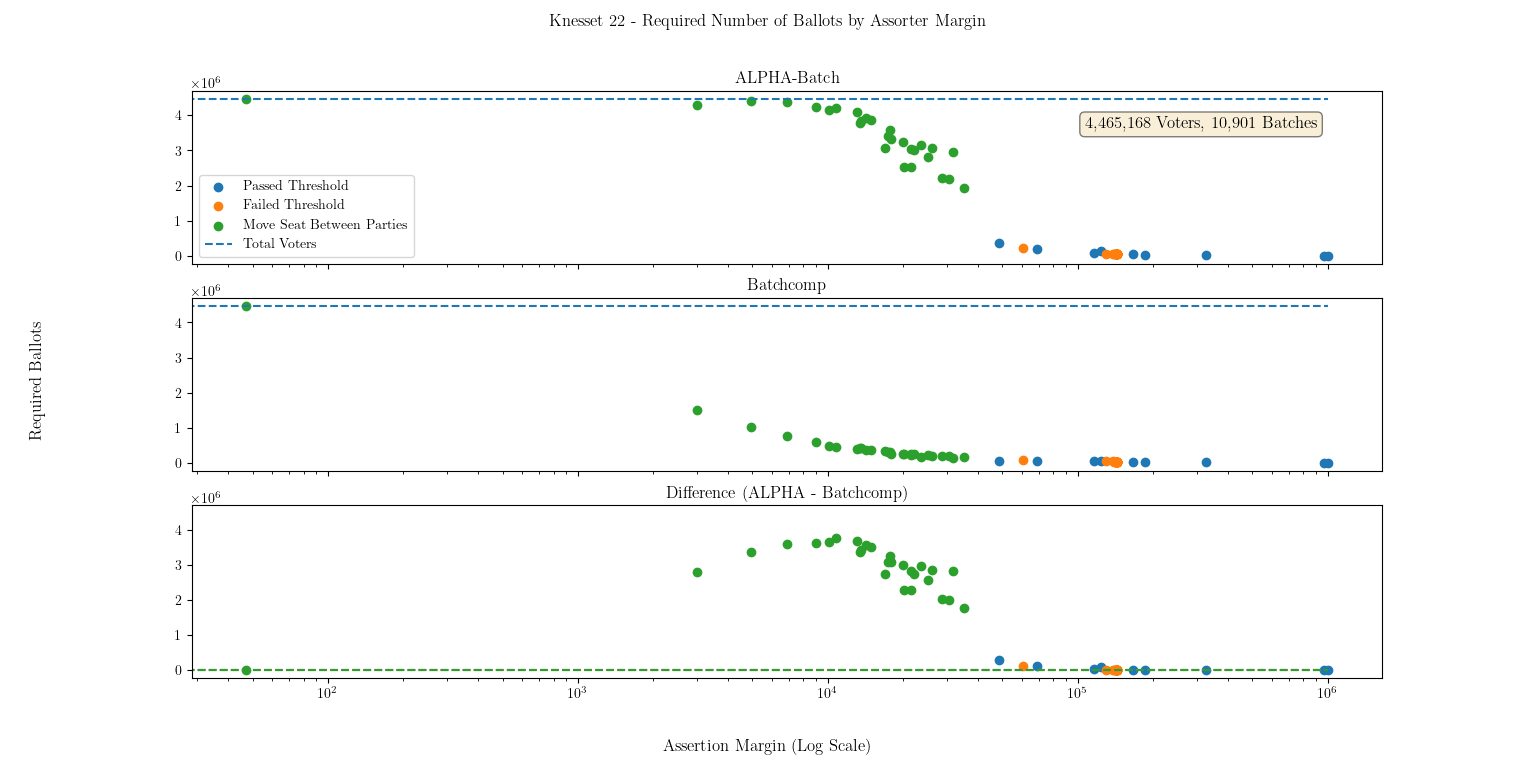
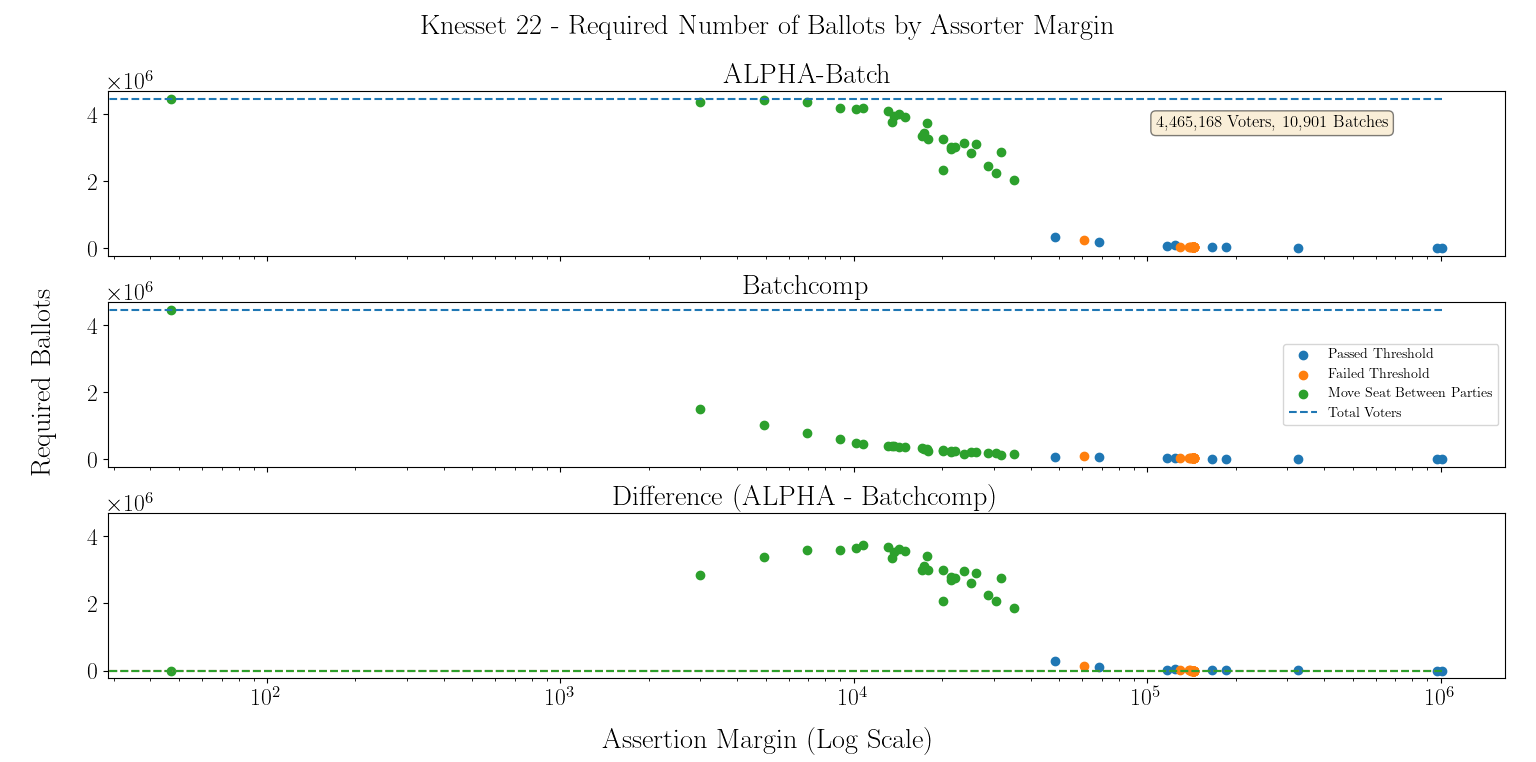
Wrote generate_census_data
+ added plots

diff --git a/CensusProfile.py b/CensusProfile.py
@@ -1,4 +1,7 @@
 import numpy as np
+from collections import Counter
+
+REPS_N = 435
 
 EPSILON = 10**(-10)
 STATE_IND = 0
@@ -6,11 +9,6 @@ IN_CENSUS_IND = 1
 CENSUS_RESIDENTS_IND = 2
 IN_PES_IND = 3
 PES_RESIDENTS_IND = 4
-
-# Possible values of the census_data[:, IN_PES_IND]
-OUT_OF_PES = 0  # Household not included in pes households
-IN_PES_UNSURVEYED = 1  # Household is included in PES households, but was not surveyed during the PES
-IN_PES_SURVEYED = 2  # Household is included in PES and was re-surveyed during it.
 
 # Data file names
 STATE_POP_FILE = 'state_pop.npy'
@@ -39,7 +37,7 @@ class CensusProfile:
         # Create dictionary with number of residents at each state
         residents_dict = dict()
         for state in self.state_constants.keys():
-            residents_dict[state] = np.sum(households[np.where(households[:, 0] == state)])
+            residents_dict[state] = np.sum(households[np.where(households[:, 0] == state)]) + self.state_constants[state]
         residents_dict = self.sort_dict(residents_dict)
 
         # Create price table
@@ -57,9 +55,41 @@ class CensusProfile:
         return dict(sorted(d.items(), key=lambda item: item[0]))
 
     @staticmethod
-    def generate_census_data(noisy_pes=False):
-        states_pop = np.load(STATE_POP_FILE)
+    def generate_census_data(noisy_pes=False, household_mismatch=0.005):
+        state_pop = np.load(STATE_POP_FILE)
         household_residents_p = np.load(HOUSEHOLD_RESIDENTS_P_FILE)
-        avg_residents_per_hh = np.mean(household_residents_p * np.arange(len(household_residents_p)))
-        census_
-        for pop in states_pop
+        mean_residents_per_hh = np.sum(household_residents_p * np.arange(len(household_residents_p)))
+        state_households = (1+household_mismatch) * state_pop / mean_residents_per_hh
+        state_households = state_households.astype(int)
+        household_n = np.sum(state_households)
+
+        # create household_data matrix and fill with household states
+        household_data = np.zeros((household_n, 5), dtype=int)
+        curr_index = 0
+        state_inds = [0]
+        for i in range(len(state_pop)):
+            only_pes_hh_num = int(state_households[i] * household_mismatch / 2)
+            only_cen_hh_num = int(state_households[i] * household_mismatch) - only_pes_hh_num
+            household_data[curr_index:(curr_index + state_households[i]), STATE_IND] = i
+            household_data[curr_index:(curr_index + state_households[i] - only_cen_hh_num), IN_PES_IND] = 1
+            household_data[curr_index:(curr_index + state_households[i] - only_cen_hh_num - only_pes_hh_num), IN_CENSUS_IND] = 1
+            household_data[(curr_index + state_households[i] - only_cen_hh_num):(curr_index + state_households[i]), IN_CENSUS_IND] = 1
+            curr_index += state_households[i]
+            state_inds.append(curr_index)
+
+        # Draw household resident counts
+        household_data[:, CENSUS_RESIDENTS_IND] = np.random.choice(len(household_residents_p), household_n, p=household_residents_p)
+        household_data[:, PES_RESIDENTS_IND] = household_data[:, CENSUS_RESIDENTS_IND]
+        household_data[np.where(household_data[:, IN_CENSUS_IND] == 0), CENSUS_RESIDENTS_IND] = 0
+        household_data[np.where(household_data[:, IN_PES_IND] == 0), PES_RESIDENTS_IND] = 0
+        if noisy_pes:
+            pass  # TODO implement
+
+        # Create state_consts to balance state population discrepancies
+        state_consts = dict()  # state_const - census_state_population = true_state_population
+        for i in range(len(state_pop)):
+            state_consts[i] = state_pop[i] - np.sum(household_data[state_inds[i]:state_inds[i + 1], CENSUS_RESIDENTS_IND])
+            assert state_consts[i] + np.sum(household_data[np.where(household_data[:, STATE_IND] == i), CENSUS_RESIDENTS_IND])
+
+        return CensusProfile(household_data, REPS_N, lambda r: np.sqrt(r * (r+1)), state_consts)
+

diff --git a/Plotter.py b/Plotter.py
@@ -58,6 +58,7 @@ def assertions_comparison_plots(alpha_assertions_list, batchcomp_assertions_list
 
     # Plot comparison
     fig, axs = plt.subplots(3, 1, sharex=True, sharey=True)
+    plt.subplots_adjust(left=0.07, bottom=0.11, top=0.88, right=0.98, hspace=0.28)
     for i, lab in enumerate(ASSERTION_LABELS):
         slicer = np.where(assertion_data_mat[:, ASSERTION_TYPE_IND] == i + 1)
         axs[0].scatter(assertion_data_mat[slicer, MARGIN_IND], assertion_data_mat[slicer, ALPHA_REQ_BALLOTS_IND], label=lab)
@@ -65,7 +66,7 @@ def assertions_comparison_plots(alpha_assertions_list, batchcomp_assertions_list
     axs[0].plot([0, max_margin], [total_voters, total_voters], '--', label='Total Voters')
     axs[1].plot([0, max_margin], [total_voters, total_voters], '--', label='Total Voters')
     #axs[0].set_xlim((0, max_margin + total_voters / 10**5))
-    axs[0].legend()
+    axs[1].legend(loc='right', prop={'size': 10})
     axs[0].set_xscale('log')
     props = dict(boxstyle='round', facecolor='wheat', alpha=0.5)
     voters_batches_txt = str('{:,}'.format(total_voters)) + " Voters, " + str('{:,}'.format(total_batches)) + str(" Batches")
@@ -125,6 +126,7 @@ def assertions_with_error_plots(assertions_list, noised_assertions_list, total_v
 
     # Plot comparison
     fig, axs = plt.subplots(3, 1, sharex=True)
+    plt.subplots_adjust(left=0.07, bottom=0.11, top=0.88, right=0.98, hspace=0.28)
     for i, lab in enumerate(ASSERTION_LABELS):
         slicer = np.where(assertion_data_mat[:, ASSERTION_TYPE_IND] == i + 1)
         axs[0].scatter(assertion_data_mat[slicer, MARGIN_IND], assertion_data_mat[slicer, ALPHA_REQ_BALLOTS_IND], label=lab)
@@ -132,7 +134,8 @@ def assertions_with_error_plots(assertions_list, noised_assertions_list, total_v
     axs[0].plot([0, max_margin], [total_voters, total_voters], '--', label='Total Voters')
     axs[1].plot([0, max_margin], [total_voters, total_voters], '--', label='Total Voters')
     axs[0].set_xscale('log')
-    axs[0].legend()
+    axs[1].legend(loc='right', prop={'size': 10})
+
     props = dict(boxstyle='round', facecolor='wheat', alpha=0.5)
     voters_batches_txt = str('{:,}'.format(total_voters)) + " Voters, " + str('{:,}'.format(total_batches)) + str(
         " Batches")
@@ -182,7 +185,7 @@ def prediction_plots(assertions_lists):
         plt.scatter(assertion_data_mat[slicer, BATCHCOMP_PREDICTION_IND], assertion_data_mat[slicer, BATCHCOMP_REQ_BALLOTS_IND], label=lab)
     max_x = np.max(assertion_data_mat[:, [BATCHCOMP_PREDICTION_IND, BATCHCOMP_REQ_BATCHES_IND]])
     plt.plot([0, max_x], [0, max_x],'--')
-    plt.legend()
+    plt.legend(loc='lower left', prop={'size': 10})
     plt.title('Share of Batches Audited per Assertion')
     plt.xlabel("Prediction")
     plt.ylabel("Actual")
@@ -190,5 +193,5 @@ def prediction_plots(assertions_lists):
 
 
 def set_font():
-    rc('font', **{'family': 'serif', 'serif': ['Computer Modern']})
+    rc('font', **{'family': 'serif', 'serif': ['Computer Modern'], 'size': 17})
     rc('text', usetex=True)

diff --git a/Main.py b/Main.py
@@ -1,5 +1,6 @@
 from ElectionProfile import ElectionProfile
 from ElectionAuditor import Auditor
+from CensusProfile import CensusProfile
 from PluralityAuditor import PluralityAuditor
 import numpy as np
 import matplotlib.pyplot as plt
@@ -130,6 +131,9 @@ def old_plot(profile, reps=1):
 
 
 if __name__ == "__main__":
+    CensusProfile.generate_census_data()
+    exit(0)
+
     election_profiles = []
     #prof = ElectionProfile(RESULTS_FILE, THRESHOLD, SEATS, APPARENTMENTS[KNESSET_NUM])
 
@@ -140,5 +144,5 @@ if __name__ == "__main__":
         prof = ElectionProfile('Results ' + str(knesset_i) + '.csv', THRESHOLD, SEATS, APPARENTMENTS[knesset_i])
         make_comp_plot(prof, knesset_i, reps=10)
         #election_profiles.append(prof)
-    make_error_plot()
+    #make_error_plot()
     #make_prediction_plots(election_profiles)
